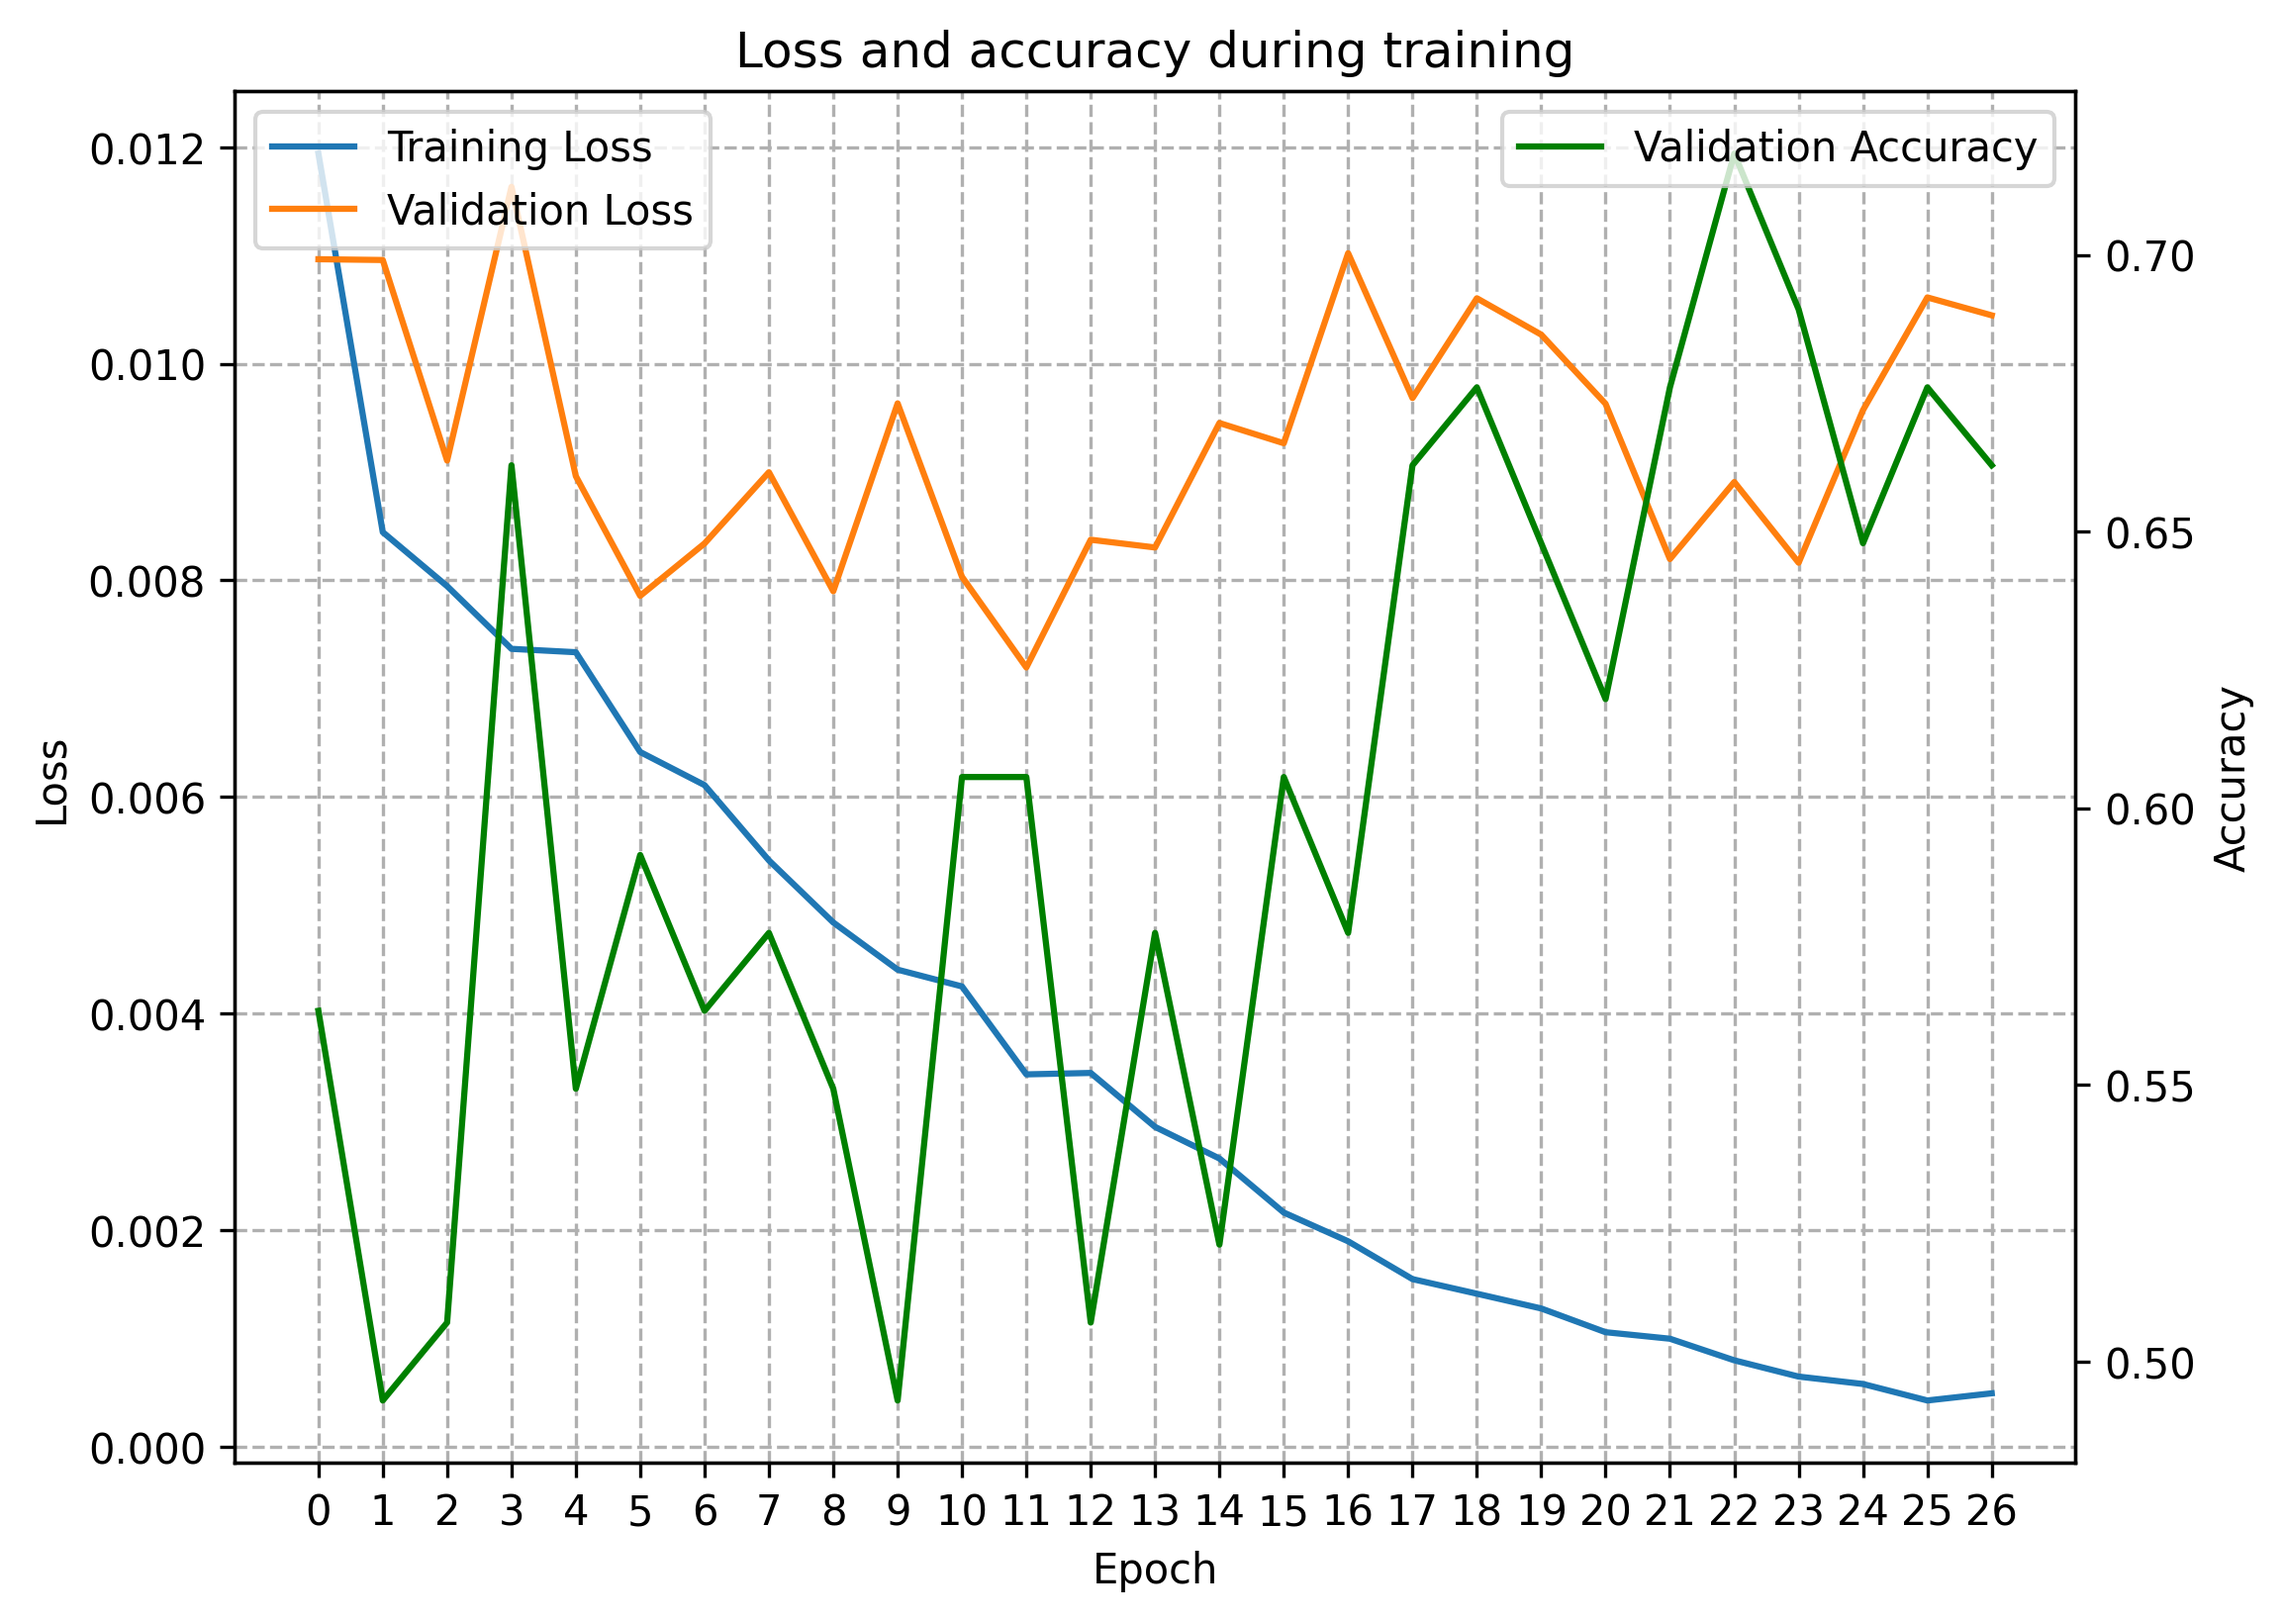
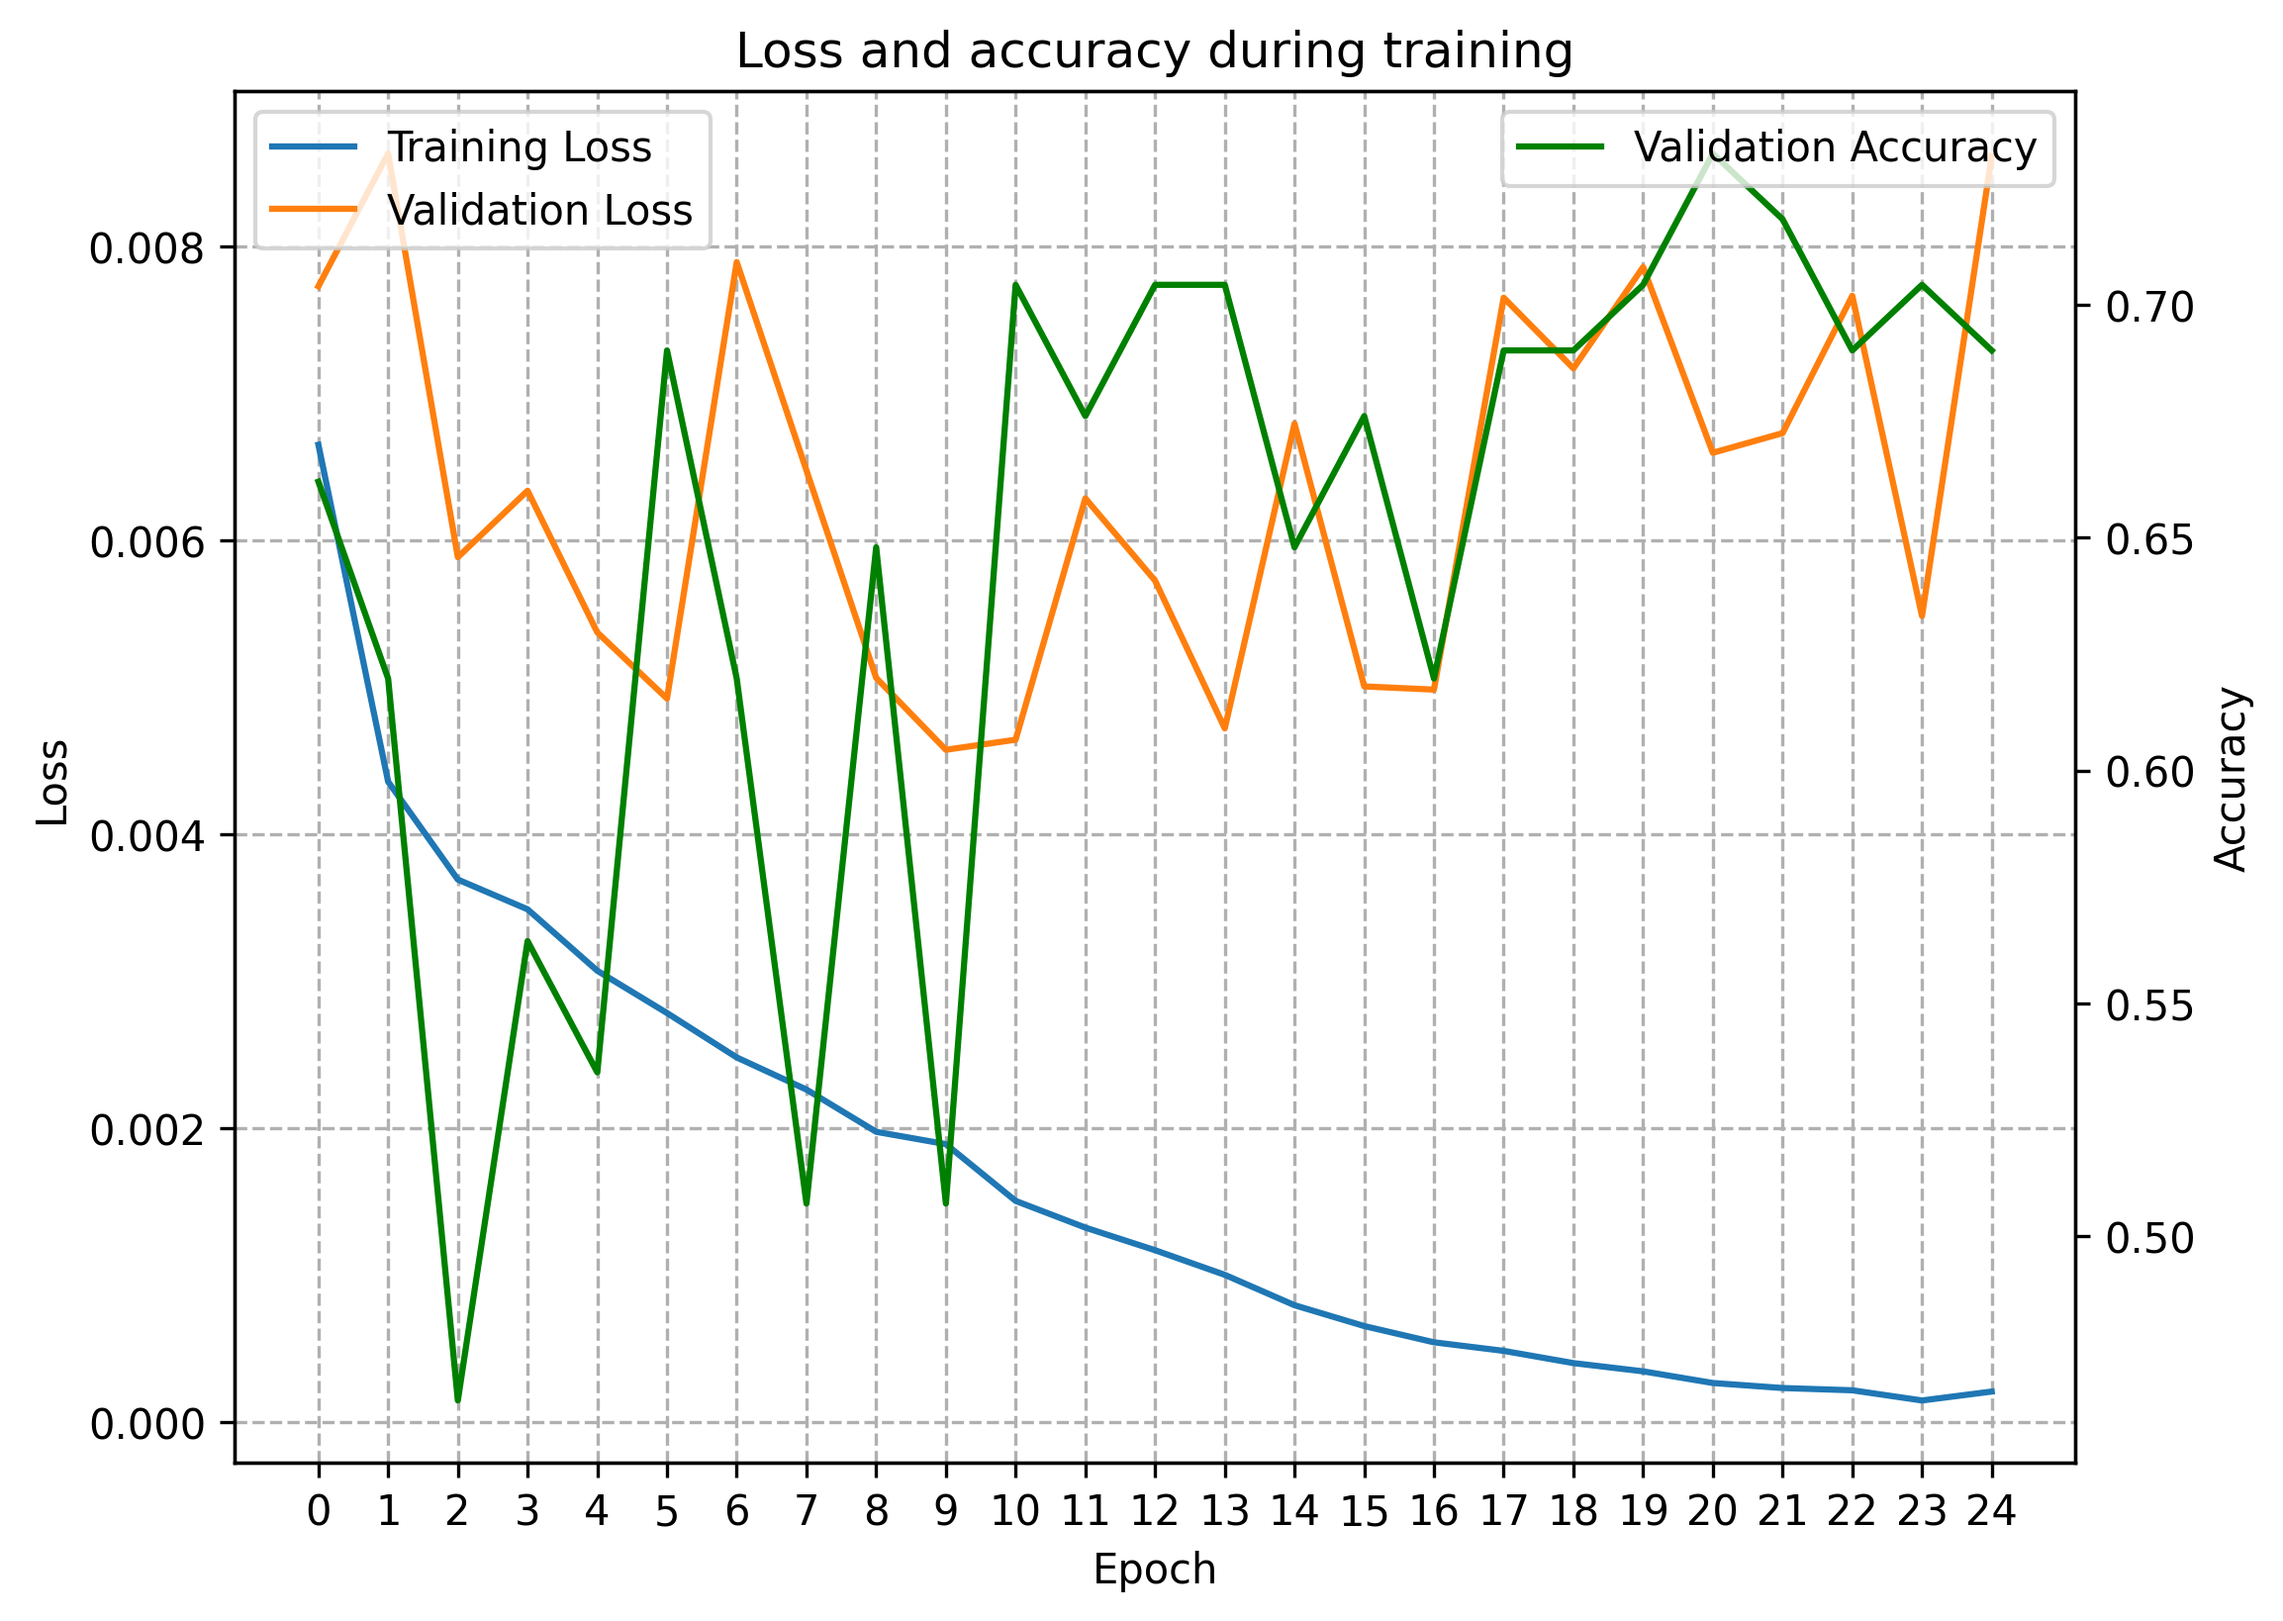
regnet y retrained

diff --git a/utils.py b/utils.py
@@ -10,38 +10,6 @@ from torch.utils.data import Dataset
 from sklearn.metrics import accuracy_score
 from torchvision.transforms import v2, InterpolationMode
 
-RegNet_transform = v2.Compose([
-    v2.ToImage(),
-    v2.ToDtype(torch.float32, scale=True),
-    v2.RandomHorizontalFlip(0.55),
-    v2.RandomVerticalFlip(0.55),
-    v2.RandomRotation(45, InterpolationMode.BILINEAR),
-    v2.Resize((232,232), interpolation=InterpolationMode.BICUBIC, antialias=True),
-    v2.CenterCrop((224,224)),
-    v2.Normalize(mean=[0.485, 0.456, 0.406], std=[0.229, 0.224, 0.225]),
-])
-
-EfficientNet_transform = v2.Compose([
-    v2.ToImage(),
-    v2.ToDtype(torch.float32, scale=True),
-    v2.RandomHorizontalFlip(0.55),
-    v2.RandomVerticalFlip(0.55),
-    v2.RandomRotation(45, InterpolationMode.BILINEAR),
-    v2.Resize((384,384), interpolation=InterpolationMode.BICUBIC, antialias=True),
-    v2.CenterCrop((384,384)),
-    v2.Normalize(mean=[0.485, 0.456, 0.406], std=[0.229, 0.224, 0.225])
-])
-
-SwinV2_transform = v2.Compose([
-    v2.ToImage(),
-    v2.ToDtype(torch.float32, scale=True),
-    v2.RandomHorizontalFlip(0.55),
-    v2.RandomVerticalFlip(0.55),
-    v2.RandomRotation(45, InterpolationMode.BILINEAR),
-    v2.Resize((260,260), interpolation=InterpolationMode.BICUBIC, antialias=True),
-    v2.CenterCrop((256,256)),
-    v2.Normalize(mean=[0.485, 0.456, 0.406], std=[0.229, 0.224, 0.225])
-])
 class ImagesOnlyDataset(Dataset):
     """
     Custom PyTorch Dataset class for loading images with associated labels.

diff --git a/Scripts/finetune-regnet.py b/Scripts/finetune-regnet.py
@@ -26,7 +26,7 @@ from torch import save
 from torch.optim import AdamW
 from torch.utils.data import DataLoader
 from torch.nn import Linear, BCEWithLogitsLoss
-from torch.optim.lr_scheduler import LambdaLR
+from torch.optim.lr_scheduler import MultiplicativeLR
 from torchvision.models.regnet import regnet_y_3_2gf, RegNet_Y_3_2GF_Weights
 
 import sys
@@ -56,11 +56,11 @@ def finetune():
     model.fc = Linear(in_features, num_classes)
     def lr_lambda(epoch):
         if epoch <= 20:
-            return 0.9 ** epoch
-        return 0.9 ** 20
+            return 0.9
+        return 1
     criterion = BCEWithLogitsLoss()
     optimizer = AdamW(model.parameters(), lr=0.001)
-    scheduler = LambdaLR(optimizer, lr_lambda)
+    scheduler = MultiplicativeLR(optimizer, lr_lambda)
 
     train_loop(model, optimizer, criterion, train_loader, val_loader, scheduler, "Data/Performance/RegNet.png", 100, 5, 15, True, 'cuda')
 
